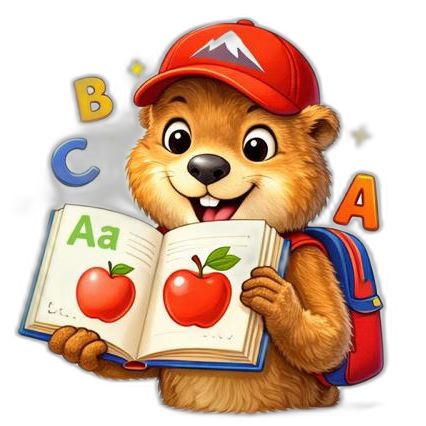
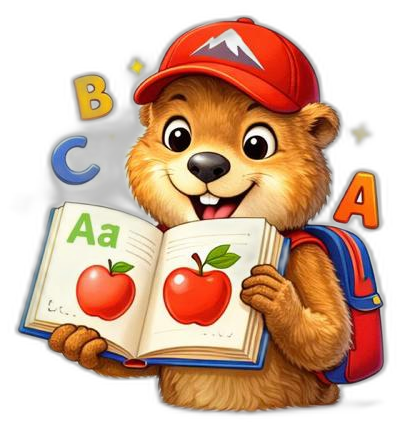
fix: mascot image crop, TTS math operators, test premium account, session-based isPremium
Fixes:
- Autocropped all 6 mascot PNGs to content bounds (removed 132px artifact from cleverli-wave.png)
- TTS: 8×9 → '8 mal 9', ÷ → 'durch', : → 'durch', + → 'plus', - → 'minus', < → 'kleiner als', > → 'grösser als', % → 'Prozent', arrows/checkmarks stripped

Test accounts:
- Premium: test@cleverli.ch / CleverliTest2026!
- Free:    free@cleverli.ch / CleverliTest2026!
- Login page shows hint box with credentials
- useSession hook reads localStorage session
- TopicClient wrapper reads isPremium from session → passes to ExercisePlayer
- Nav shows ⭐ Premium badge + Abmelden when logged in

diff --git a/src/hooks/useVoice.ts b/src/hooks/useVoice.ts
@@ -39,16 +39,35 @@ export function useVoice(options: UseVoiceOptions = {}) {
     // Cancel any ongoing speech first
     window.speechSynthesis.cancel();
 
-    // Strip emoji, fill-in-blank markers, and Swiss quote brackets
+    // ── Clean text for speech ────────────────────────────────────────
     const clean = text
-      // Remove all emoji (Unicode ranges: emoticons, misc symbols, transport, supplemental, flags, enclosed chars, dingbats, variation selectors)
+      // ── Math operator substitutions (before emoji removal) ──
+      .replace(/(\d)\s*[×x]\s*(\d)/g, "$1 mal $2")       // 8 × 9 / 8x9 → 8 mal 9
+      .replace(/(\d)\s*÷\s*(\d)/g, "$1 durch $2")        // 8 ÷ 2 → 8 durch 2
+      .replace(/(\d)\s*:\s*(\d)/g, "$1 durch $2")        // 8 : 2 → 8 durch 2
+      .replace(/(\d)\s*\+\s*(\d)/g, "$1 plus $2")        // 3 + 4 → 3 plus 4
+      .replace(/(\d)\s*−\s*(\d)/g, "$1 minus $2")        // 8 − 3 → 8 minus 3 (minus sign U+2212)
+      .replace(/(\d)\s*-\s*(\d)/g, "$1 minus $2")        // 8 - 3 → 8 minus 3 (hyphen-minus)
+      .replace(/(\d)\s*=\s*(\?|___)/g, "$1 gleich")      // 3 + 4 = ? → 3 plus 4 gleich
+      .replace(/=\s*\?/g, "gleich wie viel?")             // = ? → gleich wie viel?
+      .replace(/(\d)\s*%/g, "$1 Prozent")                 // 50% → 50 Prozent
+      .replace(/(\d)\s*°/g, "$1 Grad")                    // 90° → 90 Grad
+      .replace(/<\s*=/g, "kleiner oder gleich")           // <= → kleiner oder gleich
+      .replace(/>\s*=/g, "grösser oder gleich")           // >= → grösser oder gleich
+      .replace(/(?<!\w)<(?!\w)/g, "kleiner als")          // < → kleiner als
+      .replace(/(?<!\w)>(?!\w)/g, "grösser als")          // > → grösser als
+      // ── Remove all emoji ──
       .replace(/[\u{1F000}-\u{1FFFF}\u{2600}-\u{27FF}\u{2B00}-\u{2BFF}\u{FE00}-\u{FE0F}\u{1F900}-\u{1F9FF}\u{1FA00}-\u{1FA9F}\u{1FAA0}-\u{1FAFF}]/gu, "")
-      // Remove plain emoji symbols in common ranges that the above may miss
       .replace(/[\u{231A}-\u{231B}\u{23E9}-\u{23F3}\u{23F8}-\u{23FA}\u{25AA}-\u{25AB}\u{25B6}\u{25C0}\u{25FB}-\u{25FE}\u{2614}-\u{2615}\u{2648}-\u{2653}\u{267F}\u{2693}\u{26A1}\u{26AA}-\u{26AB}\u{26BD}-\u{26BE}\u{26C4}-\u{26C5}\u{26CE}\u{26D4}\u{26EA}\u{26F2}-\u{26F3}\u{26F5}\u{26FA}\u{26FD}\u{2702}\u{2705}\u{2708}-\u{270D}\u{270F}\u{2712}\u{2714}\u{2716}\u{271D}\u{2721}\u{2728}\u{2733}-\u{2734}\u{2744}\u{2747}\u{274C}\u{274E}\u{2753}-\u{2755}\u{2757}\u{2763}-\u{2764}\u{2795}-\u{2797}\u{27A1}\u{27B0}\u{27BF}\u{2934}-\u{2935}\u{2B05}-\u{2B07}\u{2B1B}-\u{2B1C}\u{2B50}\u{2B55}\u{3030}\u{303D}\u{3297}\u{3299}]/gu, "")
-      .replace(/___/g, "")                       // fill-in-blank markers
-      .replace(/«([^»]+)»/g, "$1")               // «Bär» → Bär (strip Swiss quotes, keep word)
-      .replace(/\([^)]{0,40}\)/g, "")            // strip short parentheticals like (laufen) or (Nomen/Verb)
-      .replace(/\s{2,}/g, " ")                   // collapse multiple spaces
+      // ── Fill-in / formatting ──
+      .replace(/___/g, "")                       // blank markers
+      .replace(/«([^»]+)»/g, "$1")               // «Bär» → Bär
+      .replace(/\([^)]{0,40}\)/g, "")            // (laufen), (Nomen/Verb)
+      .replace(/\.{2,}/g, "")                    // ... or ..
+      .replace(/→|←|↑|↓/g, "")                  // arrows
+      .replace(/✓|✗|✅|❌/g, "")                 // check/cross marks
+      .replace(/[#*_~`]/g, "")                   // markdown remnants
+      .replace(/\s{2,}/g, " ")
       .trim();
 
     const utterance = new SpeechSynthesisUtterance(clean);

diff --git a/src/app/login/page.tsx b/src/app/login/page.tsx
@@ -5,22 +5,58 @@ import { useRouter } from "next/navigation";
 import CleverliMascot from "@/components/CleverliMascot";
 import { useLang } from "@/lib/LangContext";
 
+// ── Hardcoded test accounts (replace with Supabase auth later) ────────────────
+const TEST_ACCOUNTS: { email: string; password: string; premium: boolean; name: string }[] = [
+  { email: "test@cleverli.ch",    password: "CleverliTest2026!", premium: true,  name: "Testnutzer Premium" },
+  { email: "free@cleverli.ch",    password: "CleverliTest2026!", premium: false, name: "Testnutzer Free" },
+];
+
+const SESSION_KEY = "cleverli_session";
+
+export function setSession(user: { email: string; name: string; premium: boolean }) {
+  if (typeof window !== "undefined")
+    localStorage.setItem(SESSION_KEY, JSON.stringify(user));
+}
+
+export function getSession(): { email: string; name: string; premium: boolean } | null {
+  if (typeof window === "undefined") return null;
+  try {
+    const raw = localStorage.getItem(SESSION_KEY);
+    return raw ? JSON.parse(raw) : null;
+  } catch { return null; }
+}
+
+export function clearSession() {
+  if (typeof window !== "undefined") localStorage.removeItem(SESSION_KEY);
+}
+
 export default function Login() {
   const { tr } = useLang();
   const router = useRouter();
   const [email, setEmail] = useState("");
   const [password, setPassword] = useState("");
   const [loading, setLoading] = useState(false);
-  const [notice, setNotice] = useState("");
+  const [error, setError] = useState("");
 
   const handleLogin = () => {
-    if (!email || !password) { setNotice("Bitte E-Mail und Passwort eingeben."); return; }
+    if (!email || !password) { setError("Bitte E-Mail und Passwort eingeben."); return; }
     setLoading(true);
-    setNotice("");
-    // Auth coming soon — for now redirect to dashboard after brief delay
+    setError("");
+
+    // Check test accounts
+    const account = TEST_ACCOUNTS.find(
+      a => a.email.toLowerCase() === email.toLowerCase() && a.password === password
+    );
+
     setTimeout(() => {
-      router.push("/dashboard");
-    }, 800);
+      if (account) {
+        setSession({ email: account.email, name: account.name, premium: account.premium });
+        router.push("/dashboard");
+      } else {
+        setLoading(false);
+        setError("E-Mail oder Passwort falsch. (Echtanmeldung folgt bald)");
+      }
+    }, 600);
   };
 
   return (
@@ -32,10 +68,17 @@ export default function Login() {
           <p className="text-sm text-gray-400 mt-1">Willkommen zurück!</p>
         </div>
 
+        {/* Test account hint — only in dev/test */}
+        <div className="bg-amber-50 border-2 border-amber-200 rounded-2xl px-4 py-3 text-xs text-amber-800 space-y-1">
+          <div className="font-bold">🧪 Test-Zugänge:</div>
+          <div><strong>Premium:</strong> test@cleverli.ch · CleverliTest2026!</div>
+          <div><strong>Gratis:</strong> free@cleverli.ch · CleverliTest2026!</div>
+        </div>
+
         <div className="bg-white rounded-2xl p-6 shadow-sm border border-gray-200 space-y-3">
-          {notice && (
-            <div className="bg-orange-50 border border-orange-200 rounded-xl px-4 py-3 text-sm text-orange-700">
-              {notice}
+          {error && (
+            <div className="bg-red-50 border border-red-200 rounded-xl px-4 py-3 text-sm text-red-700">
+              {error}
             </div>
           )}
           <input

diff --git a/src/components/Navigation.tsx b/src/components/Navigation.tsx
@@ -4,10 +4,11 @@ import { useState } from "react";
 import { useLang } from "@/lib/LangContext";
 import { LANGUAGES, Lang } from "@/lib/i18n";
 import XpBar from "./XpBar";
+import { useSession } from "@/hooks/useSession";
 
 export default function Navigation() {
   const { lang, setLang, tr } = useLang();
-  // lang already available for mobile menu labels
+  const { session, isPremium, logout } = useSession();
   const [open, setOpen] = useState(false);
 
   return (
@@ -40,10 +41,21 @@ export default function Navigation() {
         <div className="hidden sm:flex items-center gap-3" style={{ flexShrink: 0 }}>
           <XpBar />
           <Link href="/dashboard" className="text-sm text-gray-600 hover:text-green-700 font-medium py-2 px-2 whitespace-nowrap" style={{ minWidth: "80px", textAlign: "center" }}>{tr("learnNav")}</Link>
-          <Link href="/login" className="text-sm text-gray-600 hover:text-gray-900 font-medium py-2 px-2 whitespace-nowrap" style={{ minWidth: "56px", textAlign: "center" }}>{tr("login")}</Link>
-          <Link href="/signup" className="text-sm bg-green-600 text-white px-4 py-2 rounded-full hover:bg-green-700 transition-colors font-medium shadow-sm whitespace-nowrap inline-block text-center" style={{ width: "196px" }}>
-            {tr("signup")}
-          </Link>
+          {session ? (
+            <>
+              {isPremium && <span className="text-xs font-bold text-amber-600 bg-amber-50 px-2 py-1 rounded-full border border-amber-200 shrink-0">⭐ Premium</span>}
+              <button onClick={() => { logout(); window.location.href = "/"; }} className="text-sm text-gray-500 hover:text-gray-700 font-medium py-2 px-2 whitespace-nowrap">
+                Abmelden
+              </button>
+            </>
+          ) : (
+            <>
+              <Link href="/login" className="text-sm text-gray-600 hover:text-gray-900 font-medium py-2 px-2 whitespace-nowrap" style={{ minWidth: "56px", textAlign: "center" }}>{tr("login")}</Link>
+              <Link href="/signup" className="text-sm bg-green-600 text-white px-4 py-2 rounded-full hover:bg-green-700 transition-colors font-medium shadow-sm whitespace-nowrap inline-block text-center" style={{ width: "196px" }}>
+                {tr("signup")}
+              </Link>
+            </>
+          )}
         </div>
 
         {/* Mobile hamburger */}

diff --git a/src/app/learn/[grade]/[subject]/[topic]/page.tsx b/src/app/learn/[grade]/[subject]/[topic]/page.tsx
@@ -1,6 +1,6 @@
 import { Metadata } from "next";
 import { getTopics } from "@/data/index";
-import ExercisePlayer from "@/components/ExercisePlayer";
+import TopicClient from "./TopicClient";
 import Link from "next/link";
 
 interface Props { params: Promise<{ grade: string; subject: string; topic: string }> }
@@ -44,7 +44,6 @@ export default async function TopicPage({ params }: Props) {
 
   return (
     <div className="max-w-xl mx-auto px-4 py-6 space-y-4">
-      {/* Breadcrumb */}
       <nav className="flex items-center gap-1.5 text-xs text-gray-400 flex-wrap">
         <Link href="/dashboard" className="hover:text-green-600 transition-colors">Dashboard</Link>
         <span>›</span>
@@ -58,7 +57,8 @@ export default async function TopicPage({ params }: Props) {
         <span className="text-3xl">{topic.emoji}</span>
         <h1 className="text-xl sm:text-2xl font-bold text-gray-800">{topic.title}</h1>
       </div>
-      <ExercisePlayer topic={topic} grade={parseInt(grade)} subject={subject} />
+      {/* TopicClient reads session from localStorage to determine isPremium */}
+      <TopicClient topic={topic} grade={parseInt(grade)} subject={subject} />
     </div>
   );
 }

diff --git a/src/hooks/useSession.ts b/src/hooks/useSession.ts
@@ -1,0 +1,30 @@
+"use client";
+import { useState, useEffect } from "react";
+
+export interface Session {
+  email: string;
+  name: string;
+  premium: boolean;
+}
+
+const SESSION_KEY = "cleverli_session";
+
+export function useSession() {
+  const [session, setSession] = useState<Session | null>(null);
+  const [loaded, setLoaded] = useState(false);
+
+  useEffect(() => {
+    try {
+      const raw = localStorage.getItem(SESSION_KEY);
+      setSession(raw ? JSON.parse(raw) : null);
+    } catch { setSession(null); }
+    setLoaded(true);
+  }, []);
+
+  const logout = () => {
+    localStorage.removeItem(SESSION_KEY);
+    setSession(null);
+  };
+
+  return { session, loaded, isPremium: session?.premium ?? false, logout };
+}

diff --git a/src/app/learn/[grade]/[subject]/[topic]/TopicClient.tsx b/src/app/learn/[grade]/[subject]/[topic]/TopicClient.tsx
@@ -1,0 +1,11 @@
+"use client";
+import { Topic } from "@/types/exercise";
+import ExercisePlayer from "@/components/ExercisePlayer";
+import { useSession } from "@/hooks/useSession";
+
+interface Props { topic: Topic; grade: number; subject: string; }
+
+export default function TopicClient({ topic, grade, subject }: Props) {
+  const { isPremium } = useSession();
+  return <ExercisePlayer topic={topic} grade={grade} subject={subject} isPremium={isPremium} />;
+}
